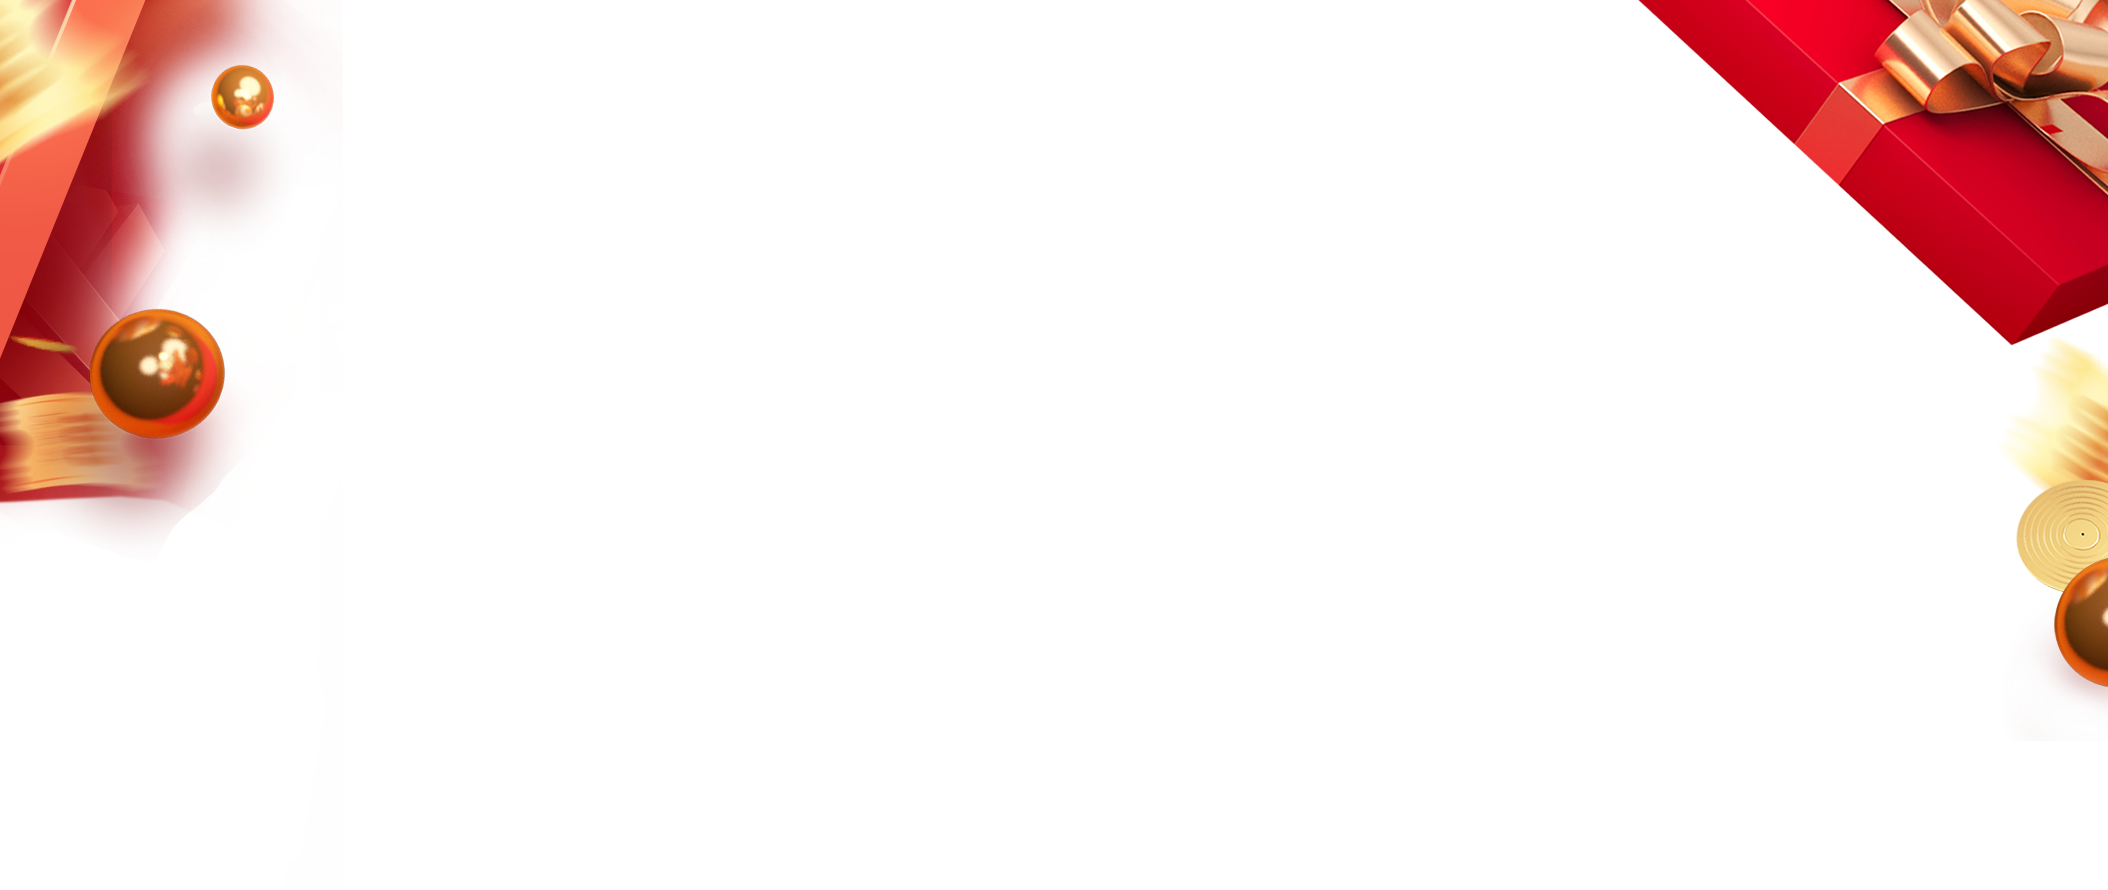
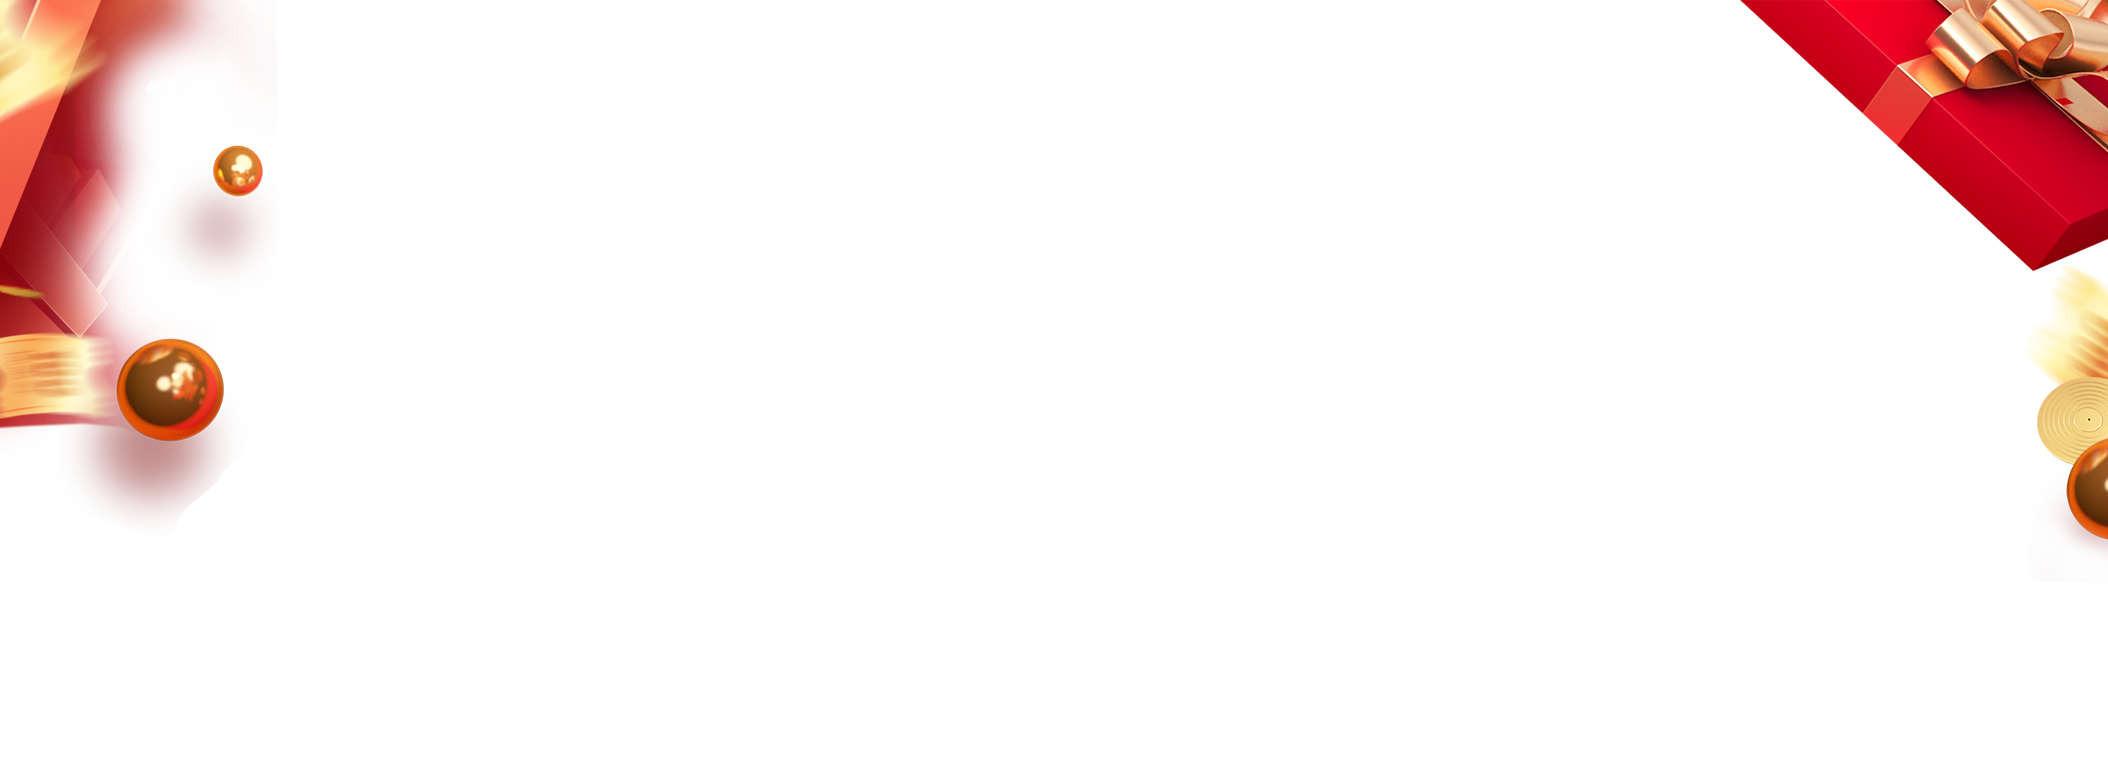
.

Changed region(s): [[0.7709, 0.0, 1.0, 0.7807], [0.0, 0.0, 0.1542, 0.6606]]

diff --git a/index.html b/index.html
@@ -12,6 +12,10 @@
 
     <!-- ===== bootstrap =====-->
     <link href="https://cdn.jsdelivr.net/npm/bootstrap@5.0.2/dist/css/bootstrap.min.css" rel="stylesheet">
+
+    <!-- ===== AOS ======= -->
+    <link rel="stylesheet" href="https://unpkg.com/aos@next/dist/aos.css" />
+
     <!-- ===== style =====-->
     <link rel="stylesheet" href="css/style.css">
 </head>
@@ -25,7 +29,7 @@
 
 
 
-                <a class="navbar-brand" href="#"><img src="images/logo.svg" alt="" class="logo"></a>
+                <a class="navbar-brand" style="text-align: center;" href="#"><img src="images/logo.svg" alt="" class="logo"></a>
                 <button class="navbar-toggler" type="button" data-toggle="collapse" data-target="#navbarSupportedContent" aria-controls="navbarSupportedContent" aria-expanded="false" aria-label="Toggle navigation">
               <span class="navbar-toggler-icon"></span>
             </button>
@@ -33,13 +37,13 @@
                 <div class="collapse navbar-collapse" id="navbarSupportedContent">
                     <ul class="navbar-nav mr-auto" style="margin: 0 auto;">
                         <li class="nav-item active">
-                            <a class="nav-link" href="#">联系客服</a>
+                            <a class="nav-link" href="https://direct.lc.chat/12263667/" target="_blank">联系客服</a>
                         </li>
                         <li class="nav-item">
-                            <a class="nav-link" href="#">开立真实帐户</a>
+                            <a class="nav-link" href="https://login.blmkt.com/OpenAccount.aspx" target="_blank">开立真实帐户</a>
                         </li>
                         <li class="nav-item">
-                            <a class="nav-link" href="#">用户登录</a>
+                            <a class="nav-link" href="https://login.blmkt.com/" target="_blank">用户登录</a>
                         </li>
 
                     </ul>
@@ -83,13 +87,14 @@
 
                         </section>
 
-                        <section class="the_link">
+                        <section class="the_link" data-aos="fade-up" data-aos-offset="-310" data-aos-delay="50" data-aos-duration="800" data-aos-easing="ease-in-out" data-aos-mirror="false" data-aos-once="false" data-aos-anchor-placement="top-center">
 
-                            <img src="images/slogan-2.png" alt="">
+                            <img src="images/slogan-2.png" alt="" class="slogan-2">
 
                             <div class="hyperLink">
                                 <a href="https://www.blmkts.com" target="_blank"><img src="images/icon-earth.png" alt=""> https://www.blmkts.com</a>
                             </div>
+
                         </section>
 
                     </blockquote>
@@ -102,7 +107,7 @@
     <!-- footer -->
     <footer>
         <!-- row1 -->
-        <div class="container-fluid the_8points">
+        <div class="container-fluid the_8points" data-aos="fade-up" data-aos-offset="-250" data-aos-delay="130" data-aos-duration="500" data-aos-easing="ease-in-out" data-aos-mirror="true" data-aos-once="false" data-aos-anchor-placement="top-center">
             <div class="row">
                 <div class="col-lg-3 col-md-6">
                     <blockquote>
@@ -138,7 +143,7 @@
             </div>
         </div>
         <!-- row2 -->
-        <div class="container-fluid the_8points">
+        <div class="container-fluid the_8points" data-aos="fade-up" data-aos-offset="-350" data-aos-delay="150" data-aos-duration="500" data-aos-easing="ease-in-out" data-aos-mirror="true" data-aos-once="false" data-aos-anchor-placement="top-center">
             <div class="row">
                 <div class="col-lg-3 col-md-6">
                     <blockquote>
@@ -170,11 +175,20 @@
                 </div>
             </div>
 
+
             <!--  -->
             <div class="footerInfo">
-                <p>4001-209-086 </p>
-                <p>cs@blmkt.com</p>
 
+                <ul class="footerContact">
+                    <li> <img src="images/icon-phone-white.png" alt=""> 4001-209-086</li>
+                    <li><img src="images/icon-mail-white.png" alt=""> cs@blmkt.com</li>
+                    <li> <img src="images/icon-earth-white.png" alt=""> www.blmkts.com</li>
+                </ul>
+
+
+                <p class="warnInfo">
+                    風險警告：保證金交易具高風險，投資者考慮投資金額時需視乎自身的能力。投資有盈有虧，您可能因此損失全部本金。保證金交易不一定適合所有投資者，交易前請確認您已完全了解相關風險。
+                </p>
 
             </div>
         </div>
@@ -184,6 +198,11 @@
 
 </body>
 
+<!-- ===== AOS =====-->
+<script src="https://unpkg.com/aos@next/dist/aos.js"></script>
+<script>
+    AOS.init();
+</script>
 
 
 <!-- ===== Bootstrap js =====-->

diff --git a/css/style.css b/css/style.css
@@ -22,7 +22,6 @@ Layous
 main {
   background: url(../images/header-gb.png) no-repeat;
   background-position: right top;
-  background-size: contain;
 }
 
 .logo {
@@ -99,7 +98,7 @@ header nav {
   position: relative;
   z-index: 2;
   top: 0rem;
-  max-width: 1100px;
+  max-width: 980px;
 }
 
 .star_overCover .-mask {
@@ -116,7 +115,7 @@ header nav {
   top: -9rem;
   z-index: 1;
   font-weight: 800;
-  font-size: 25px;
+  font-size: 20px;
   color: #010101;
   display: block;
   margin: 0 auto;
@@ -125,6 +124,7 @@ header nav {
   height: 100vh;
   max-height: 734px;
   background: url(../images/section-bg.png) no-repeat;
+  background-size: contain;
 }
 
 .the_letters section.content {
@@ -135,7 +135,7 @@ header nav {
 }
 
 .the_letters section.the_link {
-  margin: 1.81rem auto;
+  margin: 4.81rem auto 0rem;
   text-align: center;
 }
 
@@ -205,10 +205,55 @@ footer {
   background: url(../images/footer_bg.png) no-repeat;
   padding-bottom: 1rem;
   background-position: center bottom;
-  background-size: contain;
+  background-size: cover;
 }
 
 .footerInfo {
   text-align: center;
+  width: 80%;
+  margin: 2rem auto;
+  color: #fff;
+}
+
+.footerInfo ul.footerContact {
+  font-weight: bold;
+  display: -webkit-box;
+  display: -ms-flexbox;
+  display: flex;
+  margin-bottom: 3rem;
+}
+
+.footerInfo ul.footerContact li {
+  list-style: none;
+  float: left;
+  width: calc(100%/3);
+}
+
+.footerInfo p.warnInfo {
+  font-size: 15px;
+  color: #010101;
+}
+
+.navbar-brand {
+  margin-right: 0rem;
+}
+
+/**/
+@media screen and (max-width: 991px) {
+  .the_letters {
+    background: #fbeab5;
+  }
+  section.the_link {
+    margin: 0.81rem auto 0rem;
+  }
+  section.the_link img.slogan-2 {
+    width: 91%;
+  }
+}
+
+@media screen and (max-width: 700px) {
+  span.sparkle {
+    display: none !important;
+  }
 }
 /*# sourceMappingURL=style.css.map */

diff --git a/css/style.scss b/css/style.scss
@@ -28,7 +28,7 @@ Layous
 main {
     background: url(../images/header-gb.png)no-repeat;
     background-position: right top;
-    background-size: contain;
+    // background-size: cover;
 }
 
 .logo {
@@ -94,7 +94,7 @@ header {
         position: relative;
         z-index: 2;
         top: 0rem;
-        max-width: 1100px;
+        max-width: 980px;
     }
 }
 
@@ -121,7 +121,7 @@ header {
         padding-top: 10rem;
     }
     section.the_link {
-        margin: 1.81rem auto;
+        margin: 4.81rem auto 0rem;
         text-align: center;
         .hyperLink {
             a {
@@ -144,7 +144,7 @@ header {
         }
     }
     font-weight:800;
-    font-size: 25px;
+    font-size: 20px;
     color: #010101;
     display: block;
     margin: 0 auto;
@@ -153,6 +153,7 @@ header {
     height: 100vh;
     max-height: 734px;
     background: url(../images/section-bg.png)no-repeat;
+    background-size: contain;
 }
 
 .the_8points {
@@ -200,9 +201,36 @@ footer {
     background: url(../images/footer_bg.png)no-repeat;
     padding-bottom: 1rem;
     background-position: center bottom;
-    background-size: contain;
+    background-size: cover;
 }
 
 .footerInfo {
     text-align: center;
+    width: 80%;
+    margin: 2rem auto;
+    color: #fff;
+    ul.footerContact {
+        font-weight: bold;
+        display: flex;
+        margin-bottom: 3rem;
+        li {
+            list-style: none;
+            float: left;
+            width: calc(100%/3);
+        }
+    }
+    p.warnInfo {
+        font-size: 15px;
+        color: #010101;
+    }
 }
+
+// 
+.navbar-brand {
+    margin-right: 0rem;
+}
+
+
+/**/
+
+@import "responsive";

diff --git a/css/_responsive.scss b/css/_responsive.scss
@@ -1,0 +1,17 @@
+@media screen and (max-width:991px) {
+    .the_letters {
+        background: #fbeab5;
+    }
+    section.the_link {
+        margin: 0.81rem auto 0rem;
+        img.slogan-2 {
+            width: 91%;
+        }
+    }
+}
+
+@media screen and (max-width:700px) {
+    span.sparkle {
+        display: none!important;
+    }
+}
